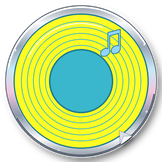
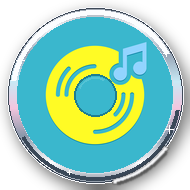
Meter el logotipo real en el sticker de la story

diff --git a/app/store/mockups.py b/app/store/mockups.py
@@ -37,7 +37,7 @@ FUENTE_TEXTO = RAIZ_APP / "static" / "fonts" / "Smooth-Circulars.otf"
 FUENTE_ITALICA = RAIZ_APP / "static" / "fonts" / "PlayfairDisplay-Italic-VF.ttf"
 FUENTE_SERIF = RAIZ_APP / "static" / "fonts" / "PlayfairDisplay-VF.ttf"
 
-# Plantilla oficial 9:16 (3126×5556) y sticker del vinilo del logotipo con aro metalizado.
+# Plantilla oficial 9:16 (3126×5556) y sticker circular con el logotipo real y aro metalizado.
 # La story de pre-orden se monta sobre esta base para no reinventar la geometría.
 BASE_STORY_PREORDEN = RAIZ_APP / "static" / "img" / "preventa_story_preorden.png"
 STICKER_STORY = RAIZ_APP / "static" / "img" / "preventa_sticker.png"
@@ -1082,11 +1082,11 @@ def _story_plantilla(portada: Image.Image, datos: dict, preset="negro",
     if STICKER_STORY.exists():
         with Image.open(STICKER_STORY) as sticker_img:
             sticker = sticker_img.convert("RGBA").resize(
-                (s(162), s(162)), Image.Resampling.LANCZOS)
-        lienzo.alpha_composite(sticker, (s(684), s(599)))
+                (s(190), s(190)), Image.Resampling.LANCZOS)
+        lienzo.alpha_composite(sticker, (s(670), s(585)))
         d = ImageDraw.Draw(lienzo)
         d.text((s(765), s(680)), f"{lps}lp",
-               font=_fuente(FUENTE_TITULO, s(38)),
+               font=_fuente(FUENTE_TITULO, s(24)),
                fill=(*BLANCO, 255), anchor="mm")
     else:
         d = ImageDraw.Draw(lienzo)
